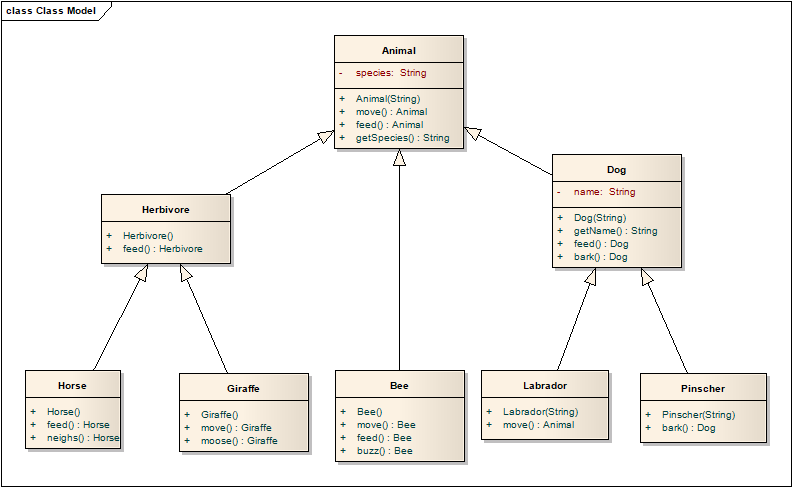
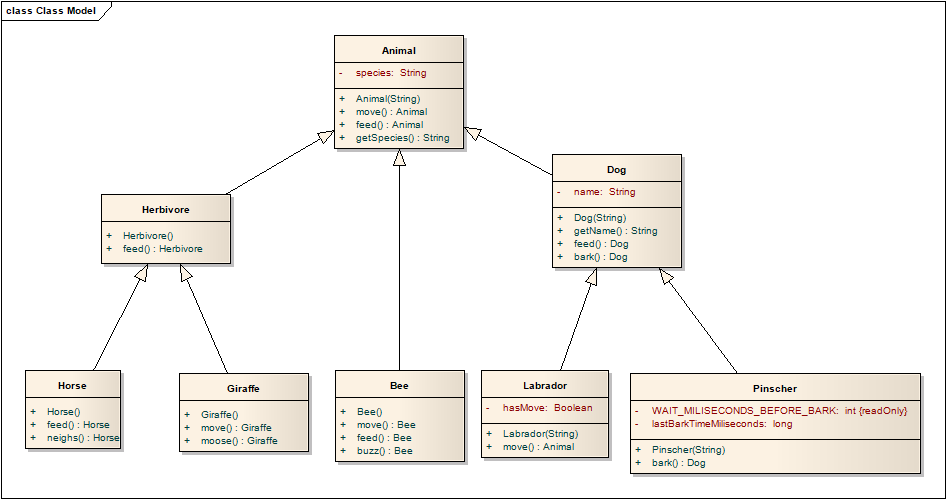
POO animal update uml to reflect the code

diff --git a/java/src/poo/animals/Pinscher.java b/java/src/poo/animals/Pinscher.java
@@ -6,7 +6,7 @@ package poo.animals;
  * @created 29-juin-2021 12:43:36
  */
 public class Pinscher extends Dog {
-    public static final int WAIT_MILISECONDS_BEFORE_BARK = 10000;
+    public final int WAIT_MILISECONDS_BEFORE_BARK = 10000;
     private long lastBarkTimeMiliseconds;
 
     /**
